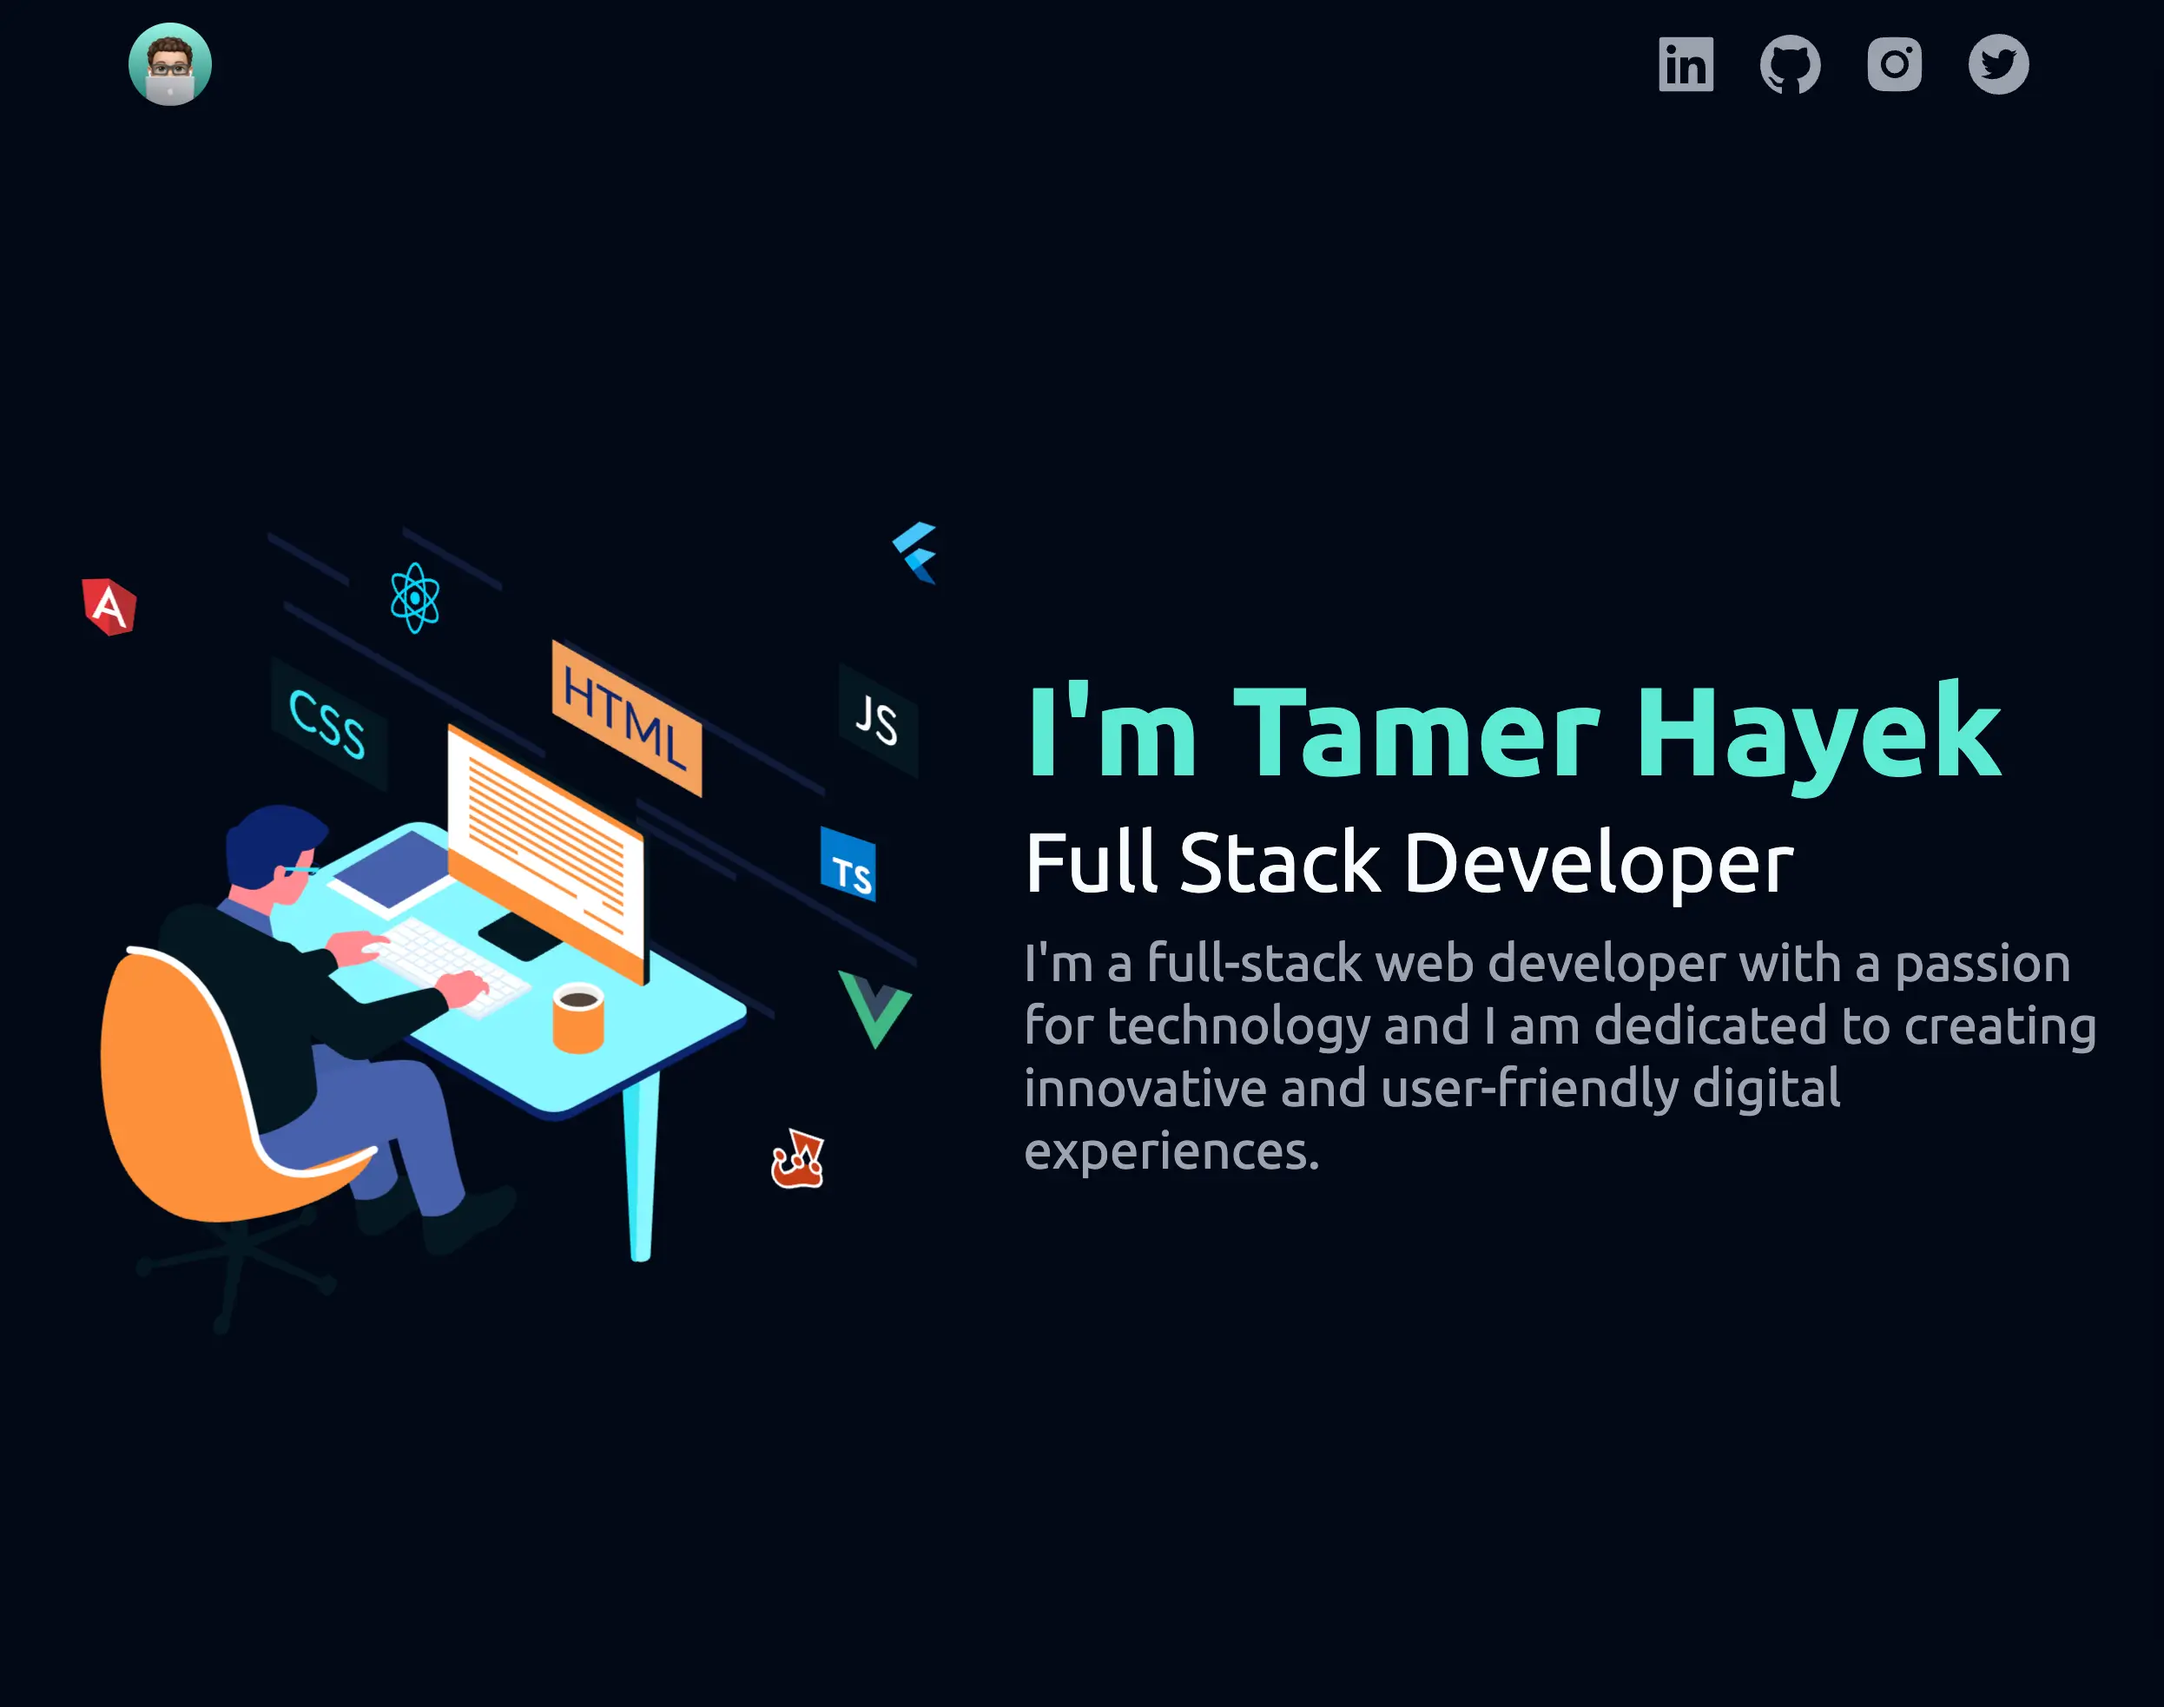
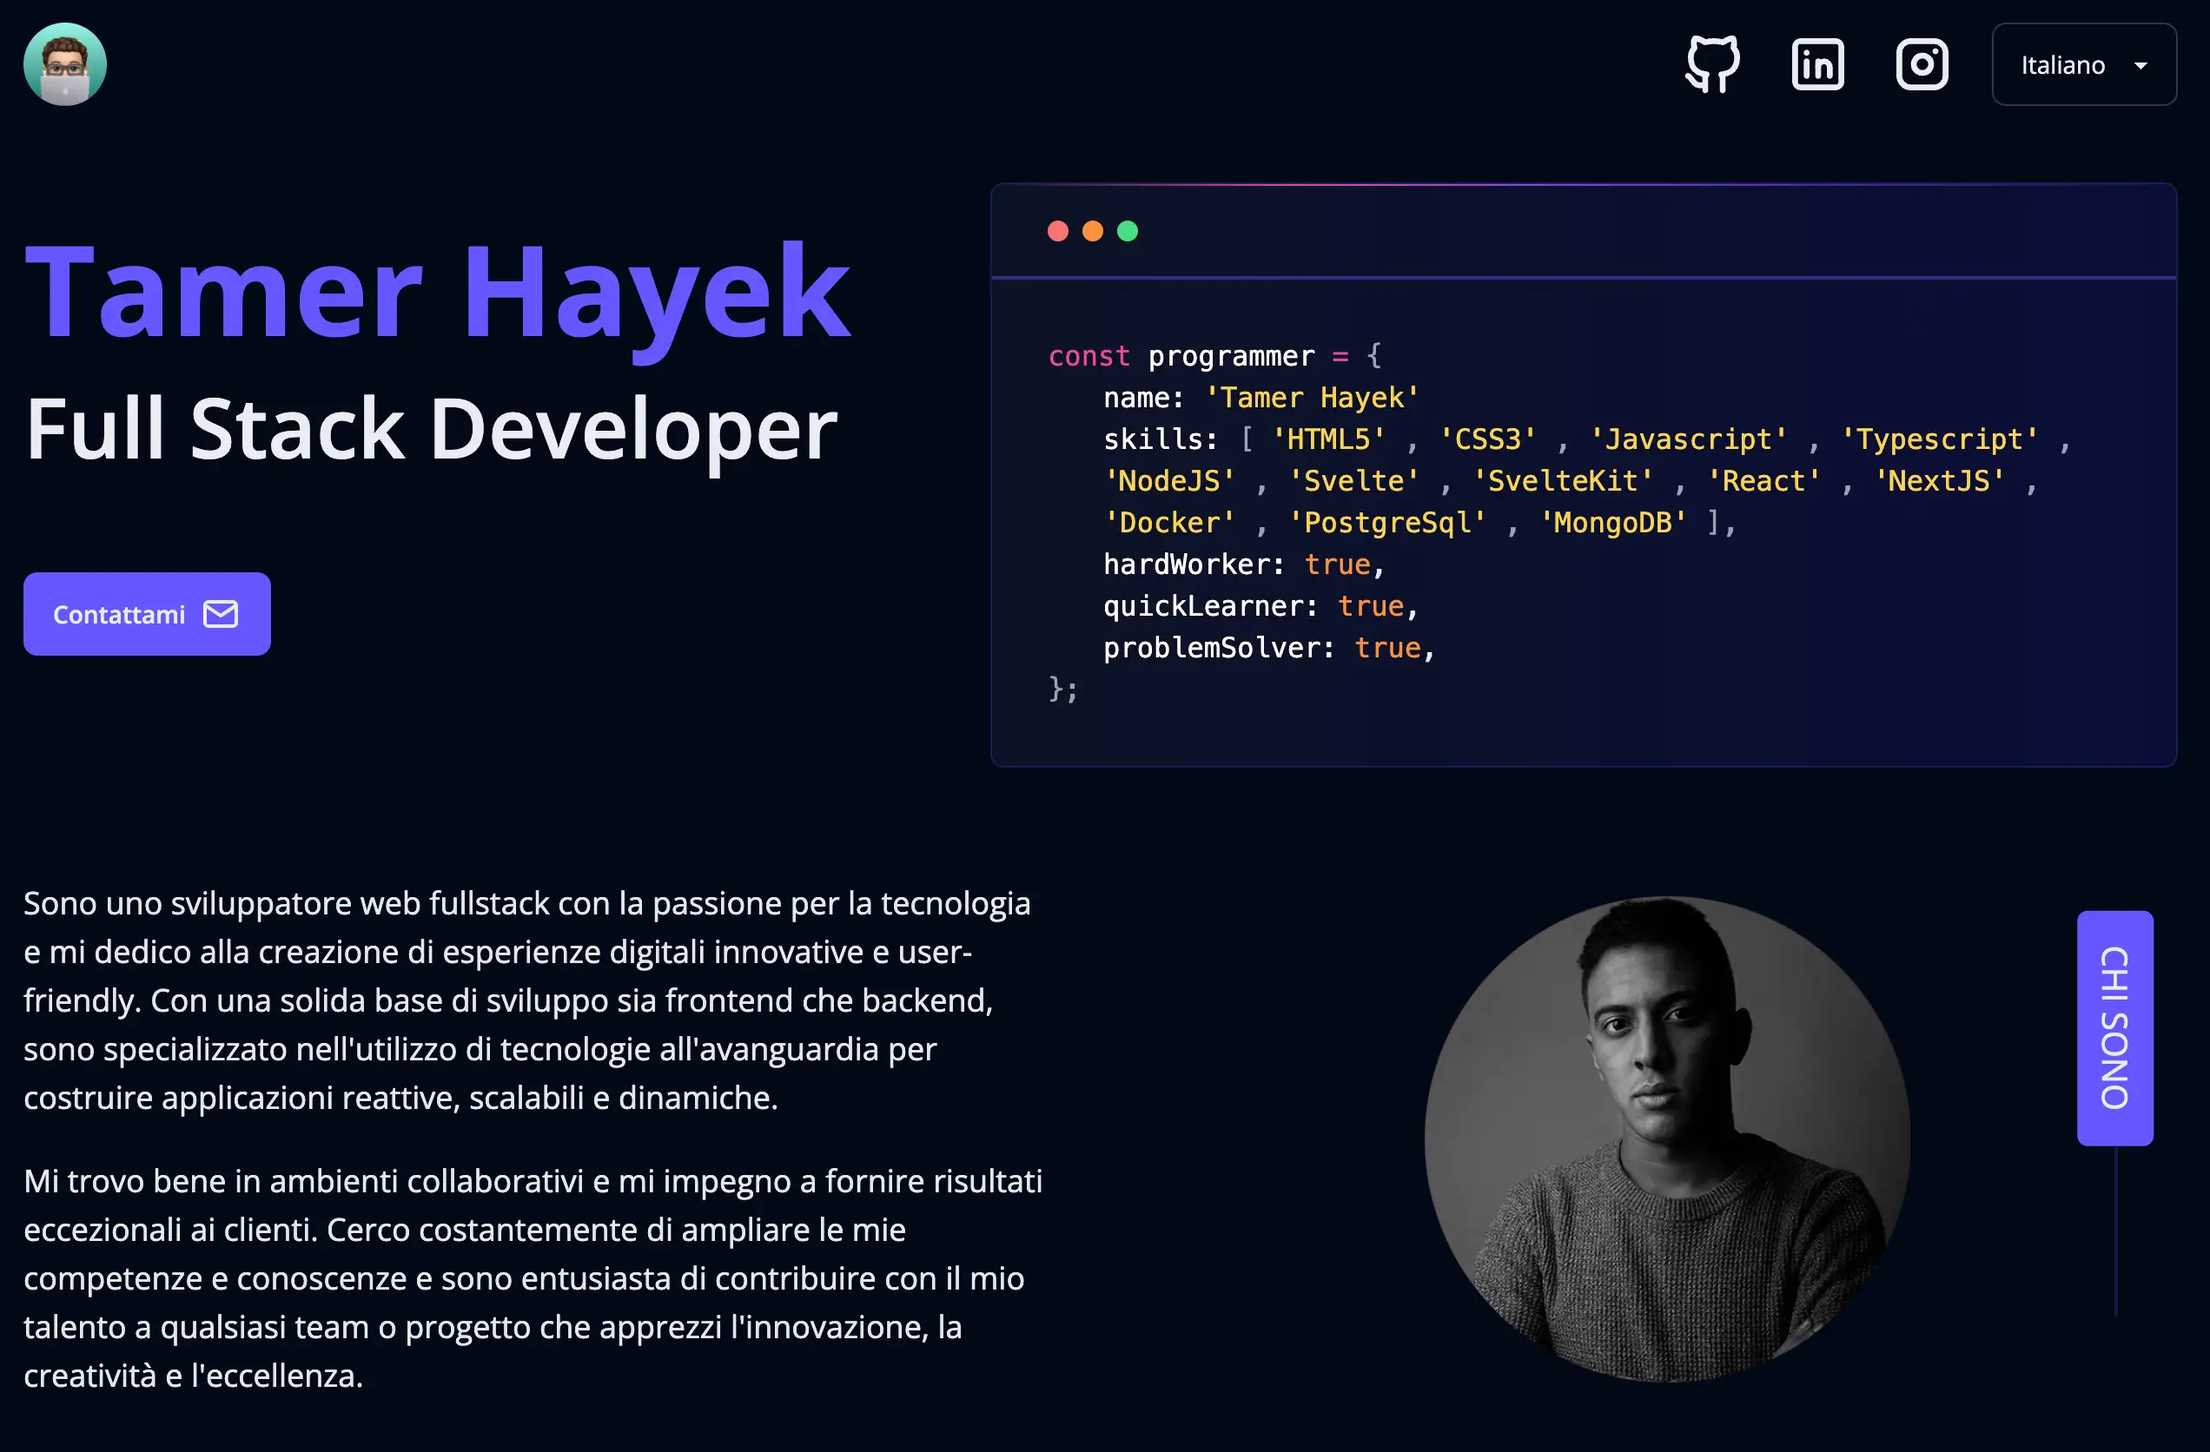
fix: portfolio image typo + update screenshot

diff --git a/src/routes/+page.svelte b/src/routes/+page.svelte
@@ -79,7 +79,7 @@
 		{
 			title: 'Portfolio',
 			description: languageTag() === 'it' ? 'Il mio portfolio' : 'This is my portfolio',
-			image: '/assets/images/projects/game-hub.webp',
+			image: '/assets/images/projects/portfolio.webp',
 			alt: languageTag() === 'it' ? 'Sito Web Portfolio' : 'Portfolio Website',
 			href: '/',
 			skills: ['HTML5', 'CSS3', 'Typescript', 'SvelteKit', 'TailwindCSS', 'DaisyUI']
